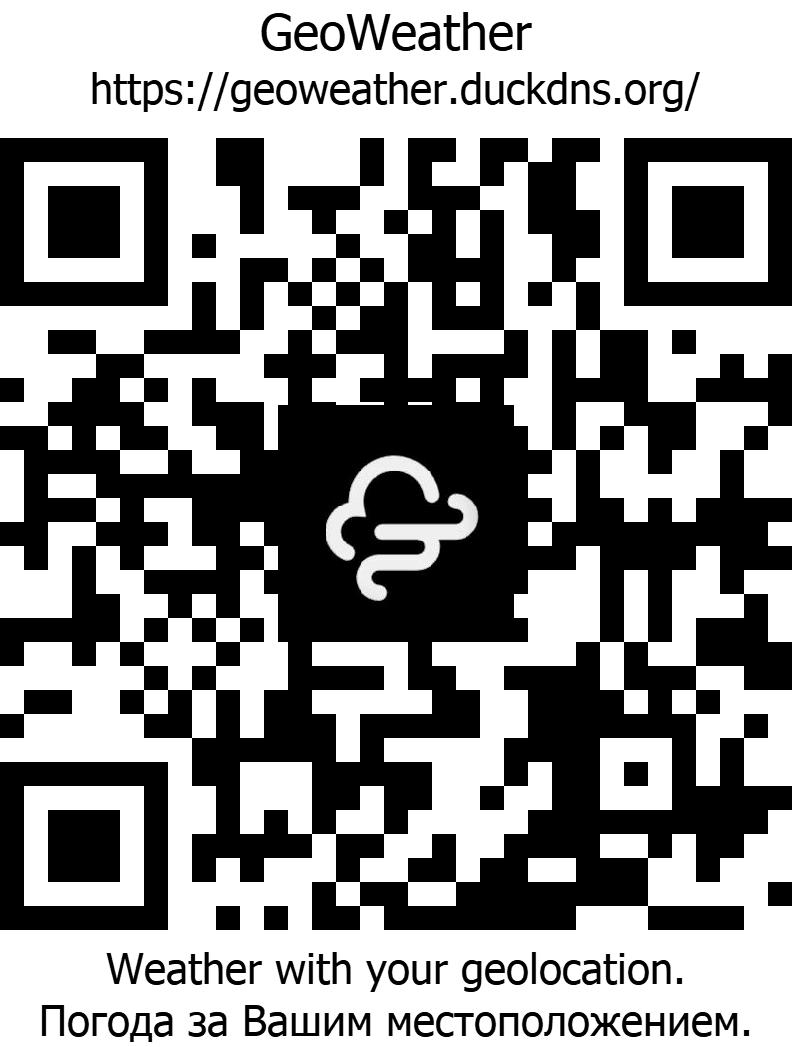
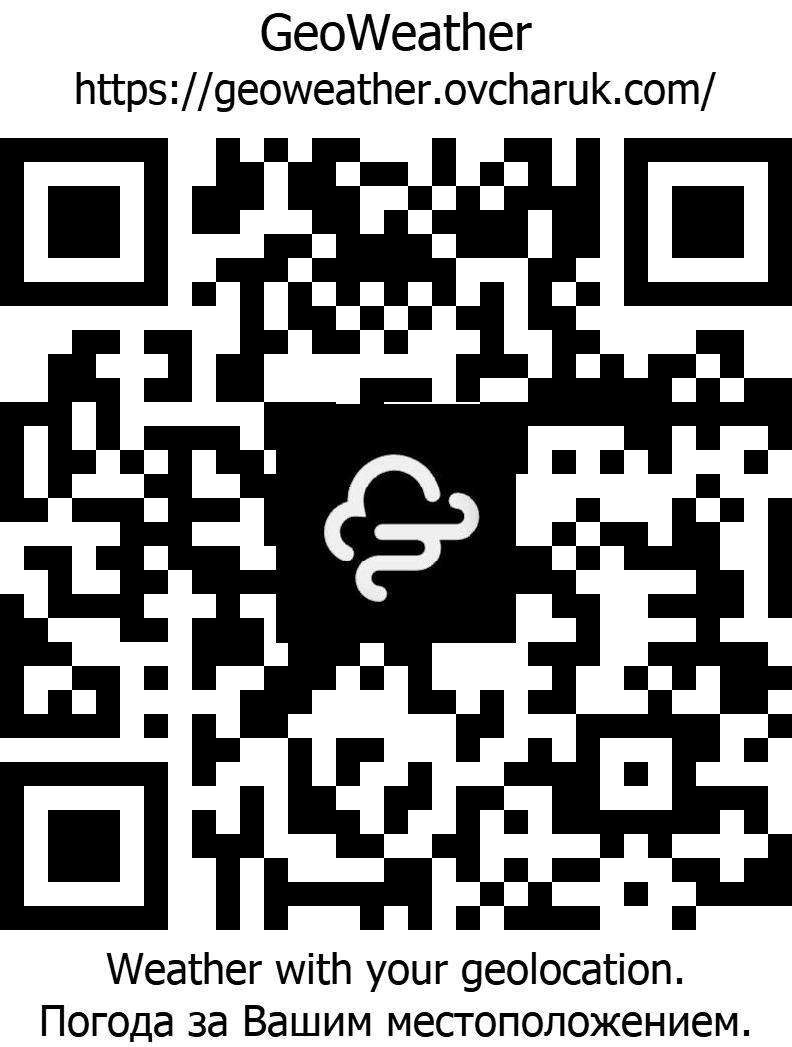
Update links

diff --git a/pages/rus/page_rus.html b/pages/rus/page_rus.html
@@ -463,7 +463,7 @@ header, main, footer {
                             <p class="content-fourth__block__mark__text">Особенность страницы: Встроенный шрифт, Анимирование и сценарий, Использование технологии ВЕМ и препроцессора SASS (в формате SCSS). Адаптивный к устройствам.</p>                              
                         </div>        
                     </a></li>
-                    <li class="content-fourth__block__mark"><a class="content-fourth__block__link" href="https://geoweather.duckdns.org/" target="_blank">
+                    <li class="content-fourth__block__mark"><a class="content-fourth__block__link" href="https://geoweather.ovcharuk.com/" target="_blank">
                         <!-- <h3 class="content-fourth__block__mark__title"></h3> -->
                         <picture>
                             <!-- <source srcset="../../img/webp/QR-Code_GW.webp" type="image/webp" /> -->

diff --git a/pages/ukr/page_ukr.html b/pages/ukr/page_ukr.html
@@ -453,7 +453,7 @@ header, main, footer {
                             <p class="content-fourth__block__mark__text">Особливість сторінки: Вбудований шрифт, Анімація та сценарій, Використання технології ВЕМ та препроцесора SASS (у форматі SCSS). Адаптивний до пристроїв.</p>                              
                         </div>        
                     </a></li>
-                    <li class="content-fourth__block__mark"><a class="content-fourth__block__link" href="https://geoweather.duckdns.org/" target="_blank">
+                    <li class="content-fourth__block__mark"><a class="content-fourth__block__link" href="https://geoweather.ovcharuk.com/" target="_blank">
                         <!-- <h3 class="content-fourth__block__mark__title"></h3> -->
                         <picture>
                             <!-- <source srcset="../../img/webp/QR-Code_GW.webp" type="image/webp" /> -->

diff --git a/pages/eng/page_eng.html b/pages/eng/page_eng.html
@@ -453,7 +453,7 @@ header, main, footer {
                             <p class="content-fourth__block__mark__text">Page Feature: Embedded font, Animation and script, Use of BEM technology and SASS preprocessor (in SCSS format). Responsive to devices.</p>                              
                         </div>        
                     </a></li>
-                    <li class="content-fourth__block__mark"><a class="content-fourth__block__link" href="https://geoweather.duckdns.org/" target="_blank">
+                    <li class="content-fourth__block__mark"><a class="content-fourth__block__link" href="https://geoweather.ovcharuk.com/" target="_blank">
                         <!-- <h3 class="content-fourth__block__mark__title"></h3> -->
                         <picture>
                             <!-- <source srcset="../../img/webp/QR-Code_GW.webp" type="image/webp" /> -->
